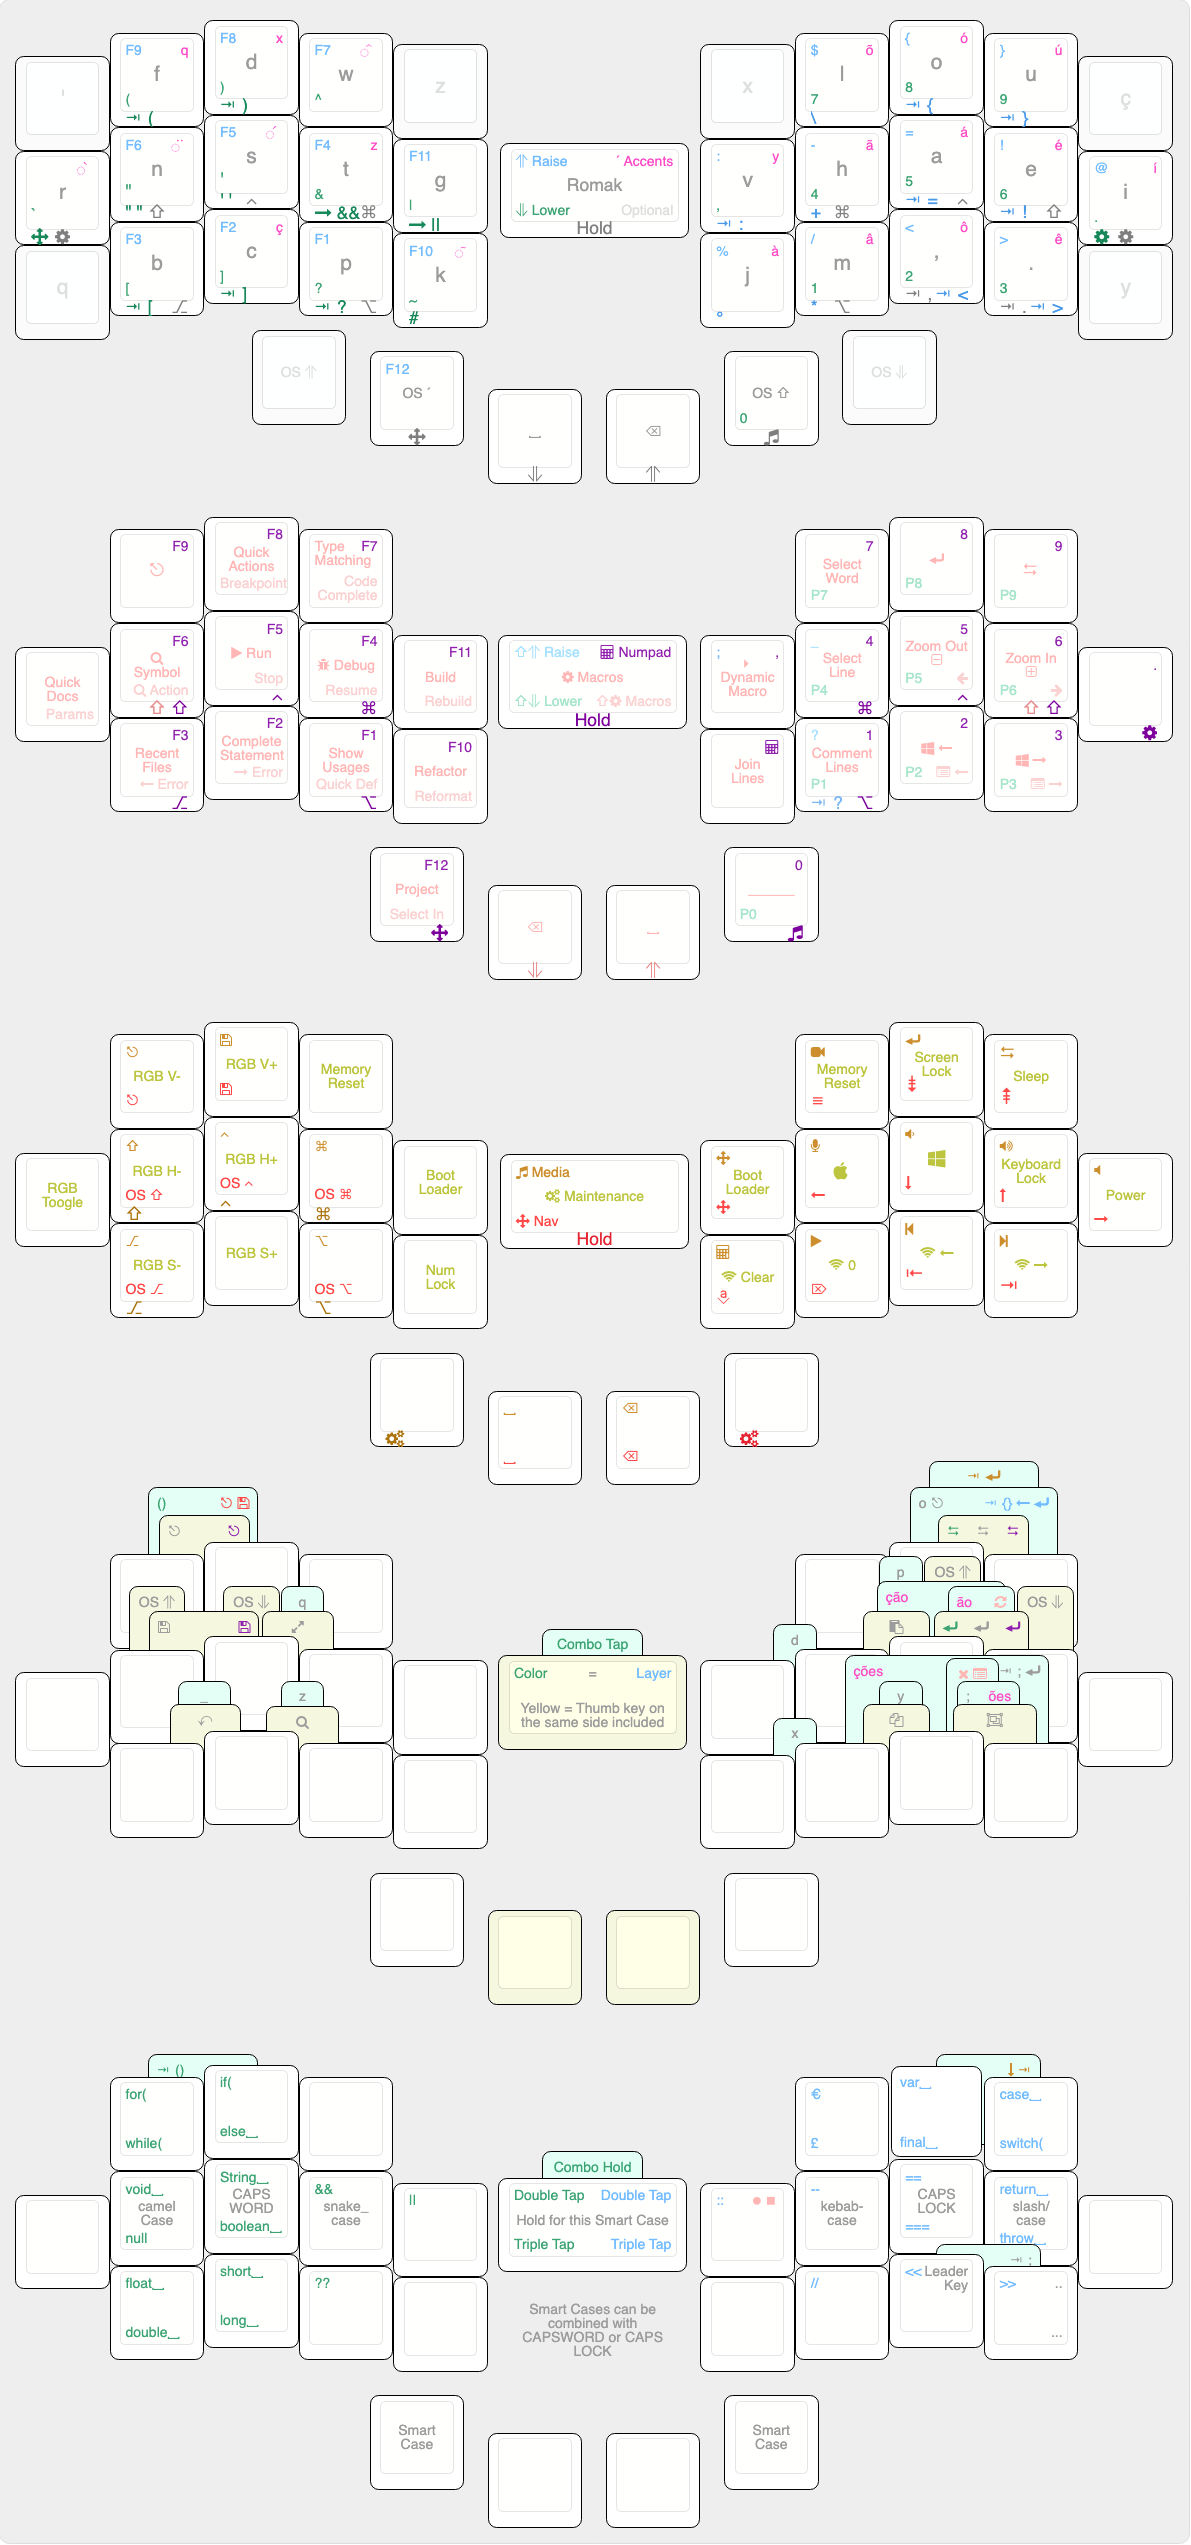
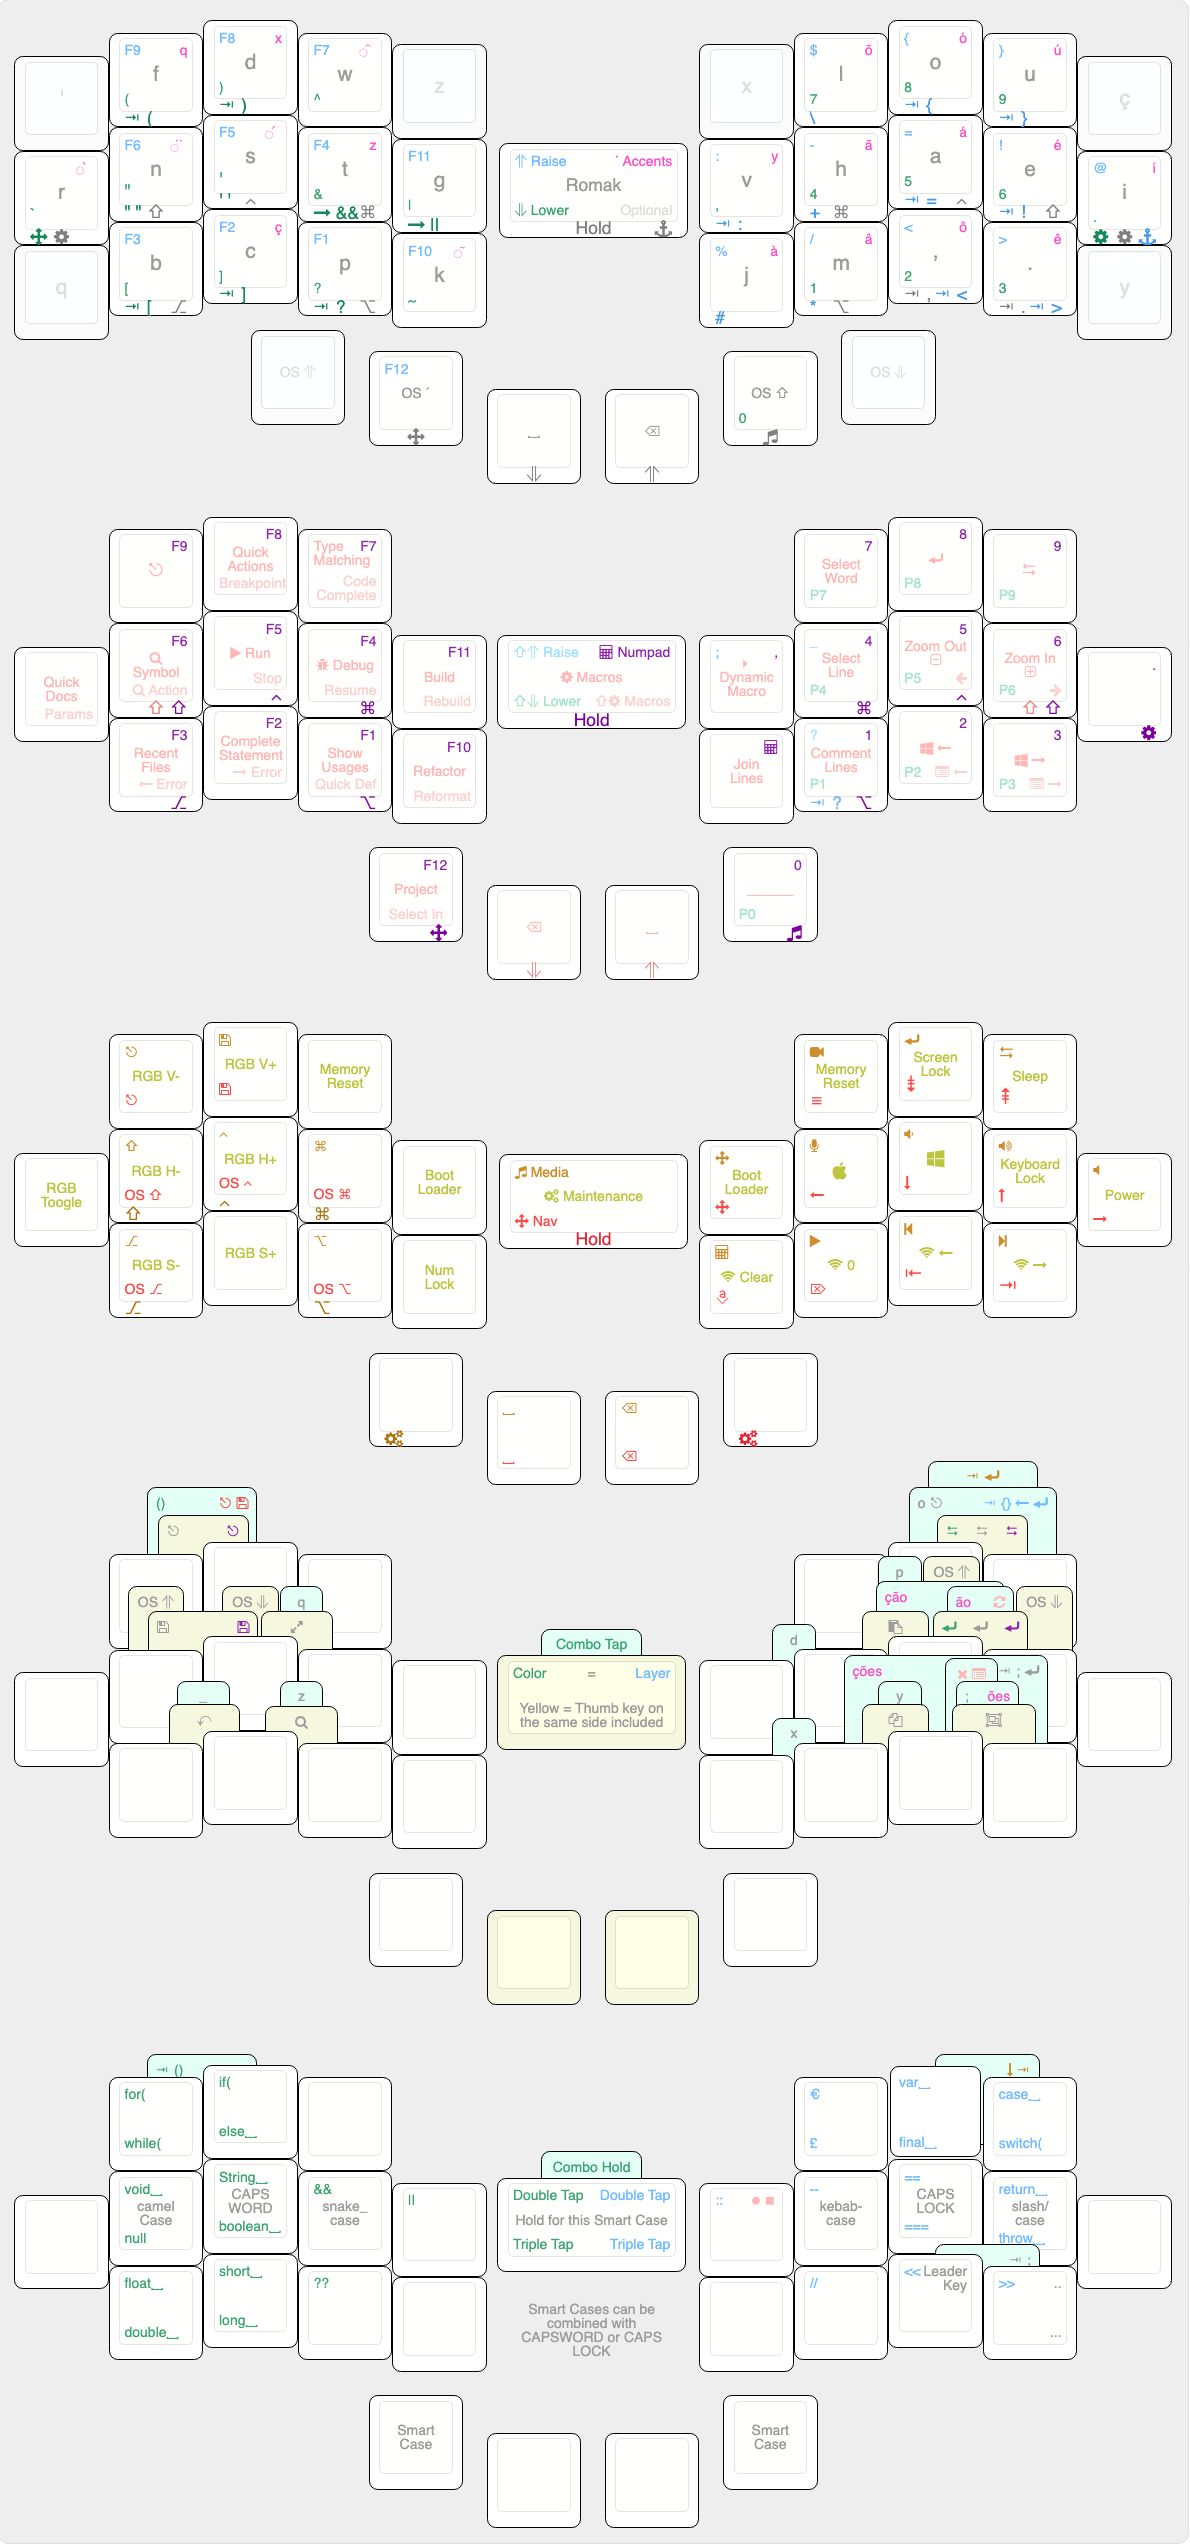
improve access to hold symbols

diff --git a/src/qmk/keyboards/kprepublic/bm40hsrgb/keymaps/rafaelromao/keymap.c b/src/qmk/keyboards/kprepublic/bm40hsrgb/keymaps/rafaelromao/keymap.c
@@ -66,7 +66,7 @@ const uint16_t PROGMEM keymaps[][MATRIX_ROWS][MATRIX_COLS] = {
  // |_______________________________________________________________________________________________________________________|
 
      [_RAISE] = LAYOUT_wrapper(
- // |_______________________________ ________________________________________________________________________________________|
+ // |_______________________________________________________________________________________________________________________|
       XXXXXXX , _________RAISE_L1__________ , XXXXXXX , XXXXXXX , XXXXXXX , XXXXXXX , _________RAISE_R1__________ , XXXXXXX ,
  // |---------+---------+---------+---------+---------+---------+---------+---------+---------+---------+---------+---------|
       ___________________RAISE_L2____________________ , XXXXXXX , XXXXXXX , ___________________RAISE_R2____________________ ,
@@ -74,6 +74,17 @@ const uint16_t PROGMEM keymaps[][MATRIX_ROWS][MATRIX_COLS] = {
       XXXXXXX , _________RAISE_L3____________________ , XXXXXXX , XXXXXXX , ___________________RAISE_R3__________ , XXXXXXX ,
  // |---------+---------+---------+---------+---------+---------+---------+---------+---------+---------+---------+---------|
       XXXXXXX , XXXXXXX , XXXXXXX , ____RAISE_L4_____ ,      XXXXXXX      , ____RAISE_R4_____ , XXXXXXX , XXXXXXX , XXXXXXX),
+ // |_______________________________________________________________________________________________________________________|
+
+     [_HOLD] = LAYOUT_wrapper(
+ // |_______________________________________________________________________________________________________________________|
+      XXXXXXX , _________HOLD__L1__________ , XXXXXXX , XXXXXXX , XXXXXXX , XXXXXXX , _________HOLD__R1__________ , XXXXXXX ,
+ // |---------+---------+---------+---------+---------+---------+---------+---------+---------+---------+---------+---------|
+      ___________________HOLD__L2____________________ , XXXXXXX , XXXXXXX , ___________________HOLD__R2____________________ ,
+ // |---------+---------+---------+---------+---------+---------+---------+---------+---------+---------+---------+---------|
+      XXXXXXX , _________HOLD__L3____________________ , XXXXXXX , XXXXXXX , ___________________HOLD__R3__________ , XXXXXXX ,
+ // |---------+---------+---------+---------+---------+---------+---------+---------+---------+---------+---------+---------|
+      XXXXXXX , XXXXXXX , XXXXXXX , ____HOLD__L4_____ ,      XXXXXXX      , ____HOLD__R4_____ , XXXXXXX , XXXXXXX , XXXXXXX),
  // |_______________________________________________________________________________________________________________________|
 
      [_FIXED_NAV] = LAYOUT_wrapper(

diff --git a/src/qmk/users/rafaelromao/definitions/keymap_blocks.h b/src/qmk/users/rafaelromao/definitions/keymap_blocks.h
@@ -43,11 +43,11 @@
 #define           _________MACROS_R1_________                     MC_SELW , MC_ENT  , MC_TAB  
 #define ___________________MACROS_R2___________________ TD_MACR , MC_SELL , MC_MODM , SF_MODP , XXXXXXX
 #define ___________________MACROS_R3_________           MC_JOIN , MC_COMT , MC_SWLE , MC_SWRI 
-#define ____MACROS_R4____                               RAI_SPC , _______
+#define ____MACROS_R4____                               HOL_SPC , _______
 
 #define           _________LOWER_L1__________                     TD_OPAR , TD_CPAR , MC_CIRC 
 #define ___________________LOWER_L2____________________ NAV_BTI , TD_DQUO , TD_SQUO , TD_AND  , TD_OR
-#define           _________LOWER_L3____________________           TD_OBR  , TD_CBR  , TD_QUES , TD_TILD
+#define           _________LOWER_L3____________________           TD_OBR  , TD_CBR  , TD_QUES , MC_TILD
 #define                               ____LOWER_L4_____                               _______ , _______
 
 #define           _________LOWER_R1__________                     KC_7    , KC_8    , KC_9    
@@ -61,9 +61,19 @@
 #define                               ____RAISE_L4_____                               NAV_F12 , _______
 
 #define           _________RAISE_R1__________                     TD_DLR  , TD_LCRB , TD_RCRB 
-#define ___________________RAISE_R2____________________ TD_COLN , TD_MINS , TD_EQL  , TD_NOT  , KC_AT
+#define ___________________RAISE_R2____________________ TD_COLN , TD_MINS , TD_EQL  , TD_NOT  , AT_HOLD
 #define ___________________RAISE_R3__________           TD_PERC , TD_SLSH , TD_LT   , TD_GT   
 #define ____RAISE_R4_____                               _______ , _______
+
+#define           _________HOLD__L1__________                     _______ , _______ , _______   
+#define ___________________HOLD__L2____________________ _______ , _______ , _______ , _______ , _______
+#define           _________HOLD__L3____________________           _______ , _______ , _______ , _______
+#define                               ____HOLD__L4_____                               _______ , _______
+
+#define           _________HOLD__R1__________                     KC_BSLS , _______ , _______ 
+#define ___________________HOLD__R2____________________ _______ , KC_PLUS , _______ , _______  , _______
+#define ___________________HOLD__R3__________           KC_HASH , KC_ASTR , _______ , _______   
+#define ____HOLD__R4_____                               _______ , _______
 
 #define           _________MEDIA_L1__________                     MC_ESC  , MC_SAVE , KC_RALT 
 #define ___________________MEDIA_L2____________________ XXXXXXX , KC_LSFT , KC_LCTL , KC_LGUI , KC_LGUI

diff --git a/src/qmk/keyboards/handwired/rafaelromao/fauxberry/keymaps/rafaelromao/keymap.c b/src/qmk/keyboards/handwired/rafaelromao/fauxberry/keymaps/rafaelromao/keymap.c
@@ -76,6 +76,17 @@ const uint16_t PROGMEM keymaps[][MATRIX_ROWS][MATRIX_COLS] = {
                           ____RAISE_L4_____ , XXXXXXX , XXXXXXX , ____RAISE_R4_____),
  // |___________________________________________________________________________________________________|
 
+     [_HOLD] = LAYOUT_wrapper(
+ // |_______________________________ ____________________________________________________________________|
+      XXXXXXX , _________HOLD__L1__________ , XXXXXXX , XXXXXXX , _________HOLD__R1__________ , XXXXXXX ,
+ // |---------+---------+---------+---------+---------+---------+---------+---------+---------+---------|
+      ___________________HOLD__L2____________________ , ___________________HOLD__R2____________________ ,
+ // |---------+---------+---------+---------+---------+---------+---------+---------+---------+---------|
+      XXXXXXX , _________HOLD__L3____________________ , ___________________HOLD__R3__________ , XXXXXXX ,
+ // |---------+---------+---------+---------+---------+---------+---------+---------+---------+---------|
+                          ____HOLD__L4_____ , XXXXXXX , XXXXXXX , ____HOLD__R4_____),
+ // |___________________________________________________________________________________________________|
+
      [_FIXED_NAV] = LAYOUT_wrapper(
  // |___________________________________________________________________________________________________|
       XXXXXXX , _________NAVIGATION_L1_____ , XXXXXXX , XXXXXXX , _________NAVIGATION_R1_____ , XXXXXXX ,

diff --git a/src/qmk/keyboards/handwired/rafaelromao/xiao/keymaps/rafaelromao/keymap.c b/src/qmk/keyboards/handwired/rafaelromao/xiao/keymaps/rafaelromao/keymap.c
@@ -76,6 +76,17 @@ const uint16_t PROGMEM keymaps[][MATRIX_ROWS][MATRIX_COLS] = {
                                     ____RAISE_L4_____ , ____RAISE_R4_____),
  // |___________________________________________________________________________________________________|
 
+     [_HOLD] = LAYOUT_wrapper(
+ // |_______________________________ ____________________________________________________________________|
+      XXXXXXX , _________HOLD__L1__________           ,           _________HOLD__R1__________ , XXXXXXX ,
+ // |---------+---------+---------+---------+---------+---------+---------+---------+---------+---------|
+      ___________________HOLD__L2____________________ , ___________________HOLD__R2____________________ ,
+ // |---------+---------+---------+---------+---------+---------+---------+---------+---------+---------|
+                _________HOLD__L3____________________ , ___________________HOLD__R3__________           ,
+ // |---------+---------+---------+---------+---------+---------+---------+---------+---------+---------|
+                                    ____HOLD__L4_____ , ____HOLD__R4_____),
+ // |___________________________________________________________________________________________________|
+
      [_FIXED_NAV] = LAYOUT_wrapper(
  // |___________________________________________________________________________________________________|
       XXXXXXX , _________NAVIGATION_L1_____           ,           _________NAVIGATION_R1_____ , XXXXXXX ,

diff --git a/src/qmk/users/rafaelromao/features/tapdance.c b/src/qmk/users/rafaelromao/features/tapdance.c
@@ -240,20 +240,6 @@ void td_or(qk_tap_dance_state_t *state, void *user_data) {
     }
 }
 
-void td_tild(qk_tap_dance_state_t *state, void *user_data) {
-    tap_state.state = dance_state(state);
-    switch (tap_state.state) {
-        case TD_SINGLE_TAP:
-            process_macros(MC_TILD, NULL);
-            break;
-        case TD_SINGLE_HOLD:
-            tap_code16(KC_HASH);
-            break;
-        default:
-            break;
-    }
-}
-
 void td_not(qk_tap_dance_state_t *state, void *user_data) {
     tap_state.state = dance_state(state);
     switch (tap_state.state) {
@@ -327,11 +313,7 @@ void td_perc(qk_tap_dance_state_t *state, void *user_data) {
             tap_code16(KC_PERC);
             break;
         case TD_SINGLE_HOLD:
-            if (is_macos()) {
-                tap_code16(LSFT(RALT(KC_8)));
-            } else {
-                tap_code16(LSFT(LCTL(KC_2)));
-            }
+            tap_code16(KC_HASH);
             break;
         default:
             break;
@@ -621,7 +603,6 @@ qk_tap_dance_action_t tap_dance_actions[] = {
     [NOT_SWI] = ACTION_TAP_DANCE_FN(td_not),
     [AND_EAN] = ACTION_TAP_DANCE_FN(td_and),
     [OR_EOR]  = ACTION_TAP_DANCE_FN(td_or),
-    [TIL_HAS] = ACTION_TAP_DANCE_FN(td_tild),
     [REC_MAC] = ACTION_TAP_DANCE_FN(td_macro),
     [COM_LEA] = ACTION_TAP_DANCE_FN(td_comm),
     [DLR_CUR] = ACTION_TAP_DANCE_FN(td_currencies),

diff --git a/src/qmk/users/rafaelromao/definitions/keycodes.h b/src/qmk/users/rafaelromao/definitions/keycodes.h
@@ -34,7 +34,6 @@ enum {
     LET_ELT,
     GRT_EGT,
     OR_EOR,
-    TIL_HAS,
     TD_CODE_END 
 };
 
@@ -65,7 +64,6 @@ enum {
 #define TD_EQL TD(EQL_EEQ)
 #define TD_LT TD(LET_ELT)
 #define TD_GT TD(GRT_EGT)
-#define TD_TILD TD(TIL_HAS)
 #define TD_OR TD(OR_EOR)
 
 // Custom keycodes
@@ -171,10 +169,12 @@ enum {
 #define RAI_BSP LT(_RAISE, KC_BSPC)
 #define LOW_BSP LT(_LOWER, KC_BSPC)
 #define RAI_SPC LT(_RAISE, KC_SPC)
+#define HOL_SPC LT(_HOLD, KC_SPC)
 
 #define KCR_MAC LT(_MACROS, KC_R)
 #define KCI_MAC LT(_MACROS, KC_I)
 #define DOT_MAC LT(_MACROS, KC_DOT)
+#define AT_HOLD LT(_HOLD, KC_AT)
 
 // Layer transitions
 #define OS_LOW OSL(_LOWER)

diff --git a/src/qmk/users/rafaelromao/features/taphold.c b/src/qmk/users/rafaelromao/features/taphold.c
@@ -57,6 +57,13 @@ process_record_result_t process_taphold(uint16_t keycode, keyrecord_t *record) {
             }
             break;
 
+        case AT_HOLD:
+            if (record->event.pressed && record->tap.count > 0) {
+                tap_code16(KC_AT);
+                return PROCESS_RECORD_RETURN_FALSE;
+            }
+            break;
+
         case SF_MODP:
             if (record->event.pressed && record->tap.count > 0) {
                 process_swapper(MC_MODP, NULL);

diff --git a/src/qmk/users/rafaelromao/definitions/layers.h b/src/qmk/users/rafaelromao/definitions/layers.h
@@ -7,6 +7,7 @@ typedef enum {
     _MACROS,
     _LOWER,
     _RAISE,
+    _HOLD,
     _FIXED_NAV,
     _NAVIGATION,
     _MEDIA,
